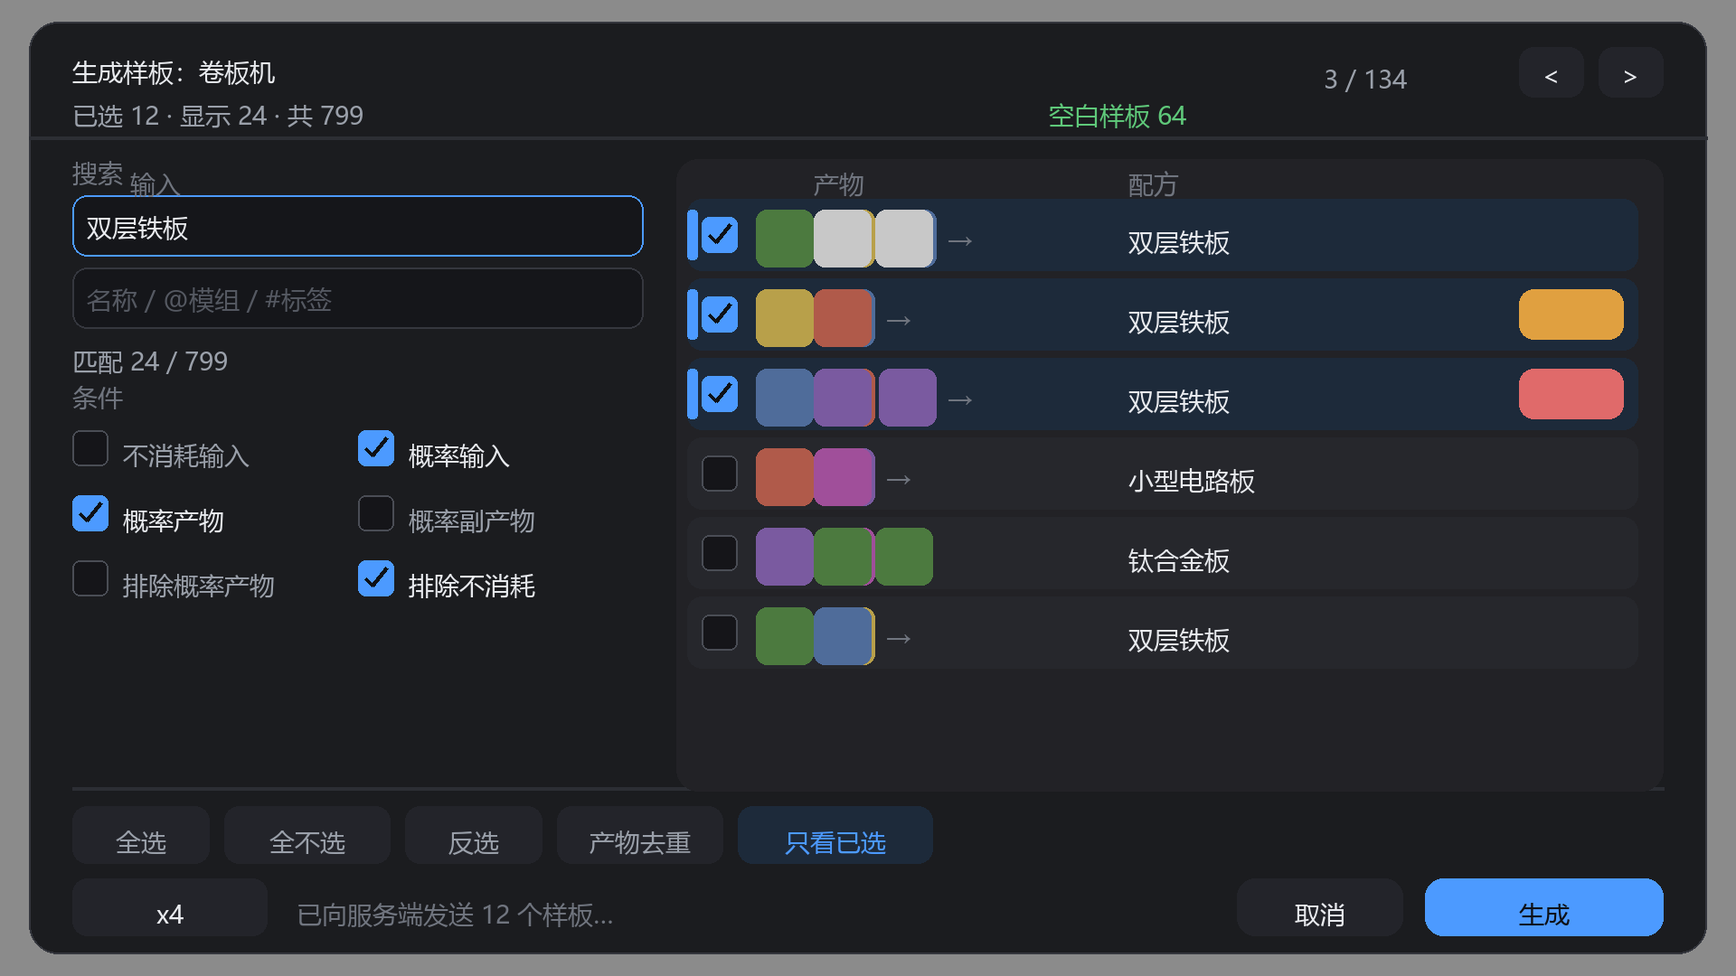
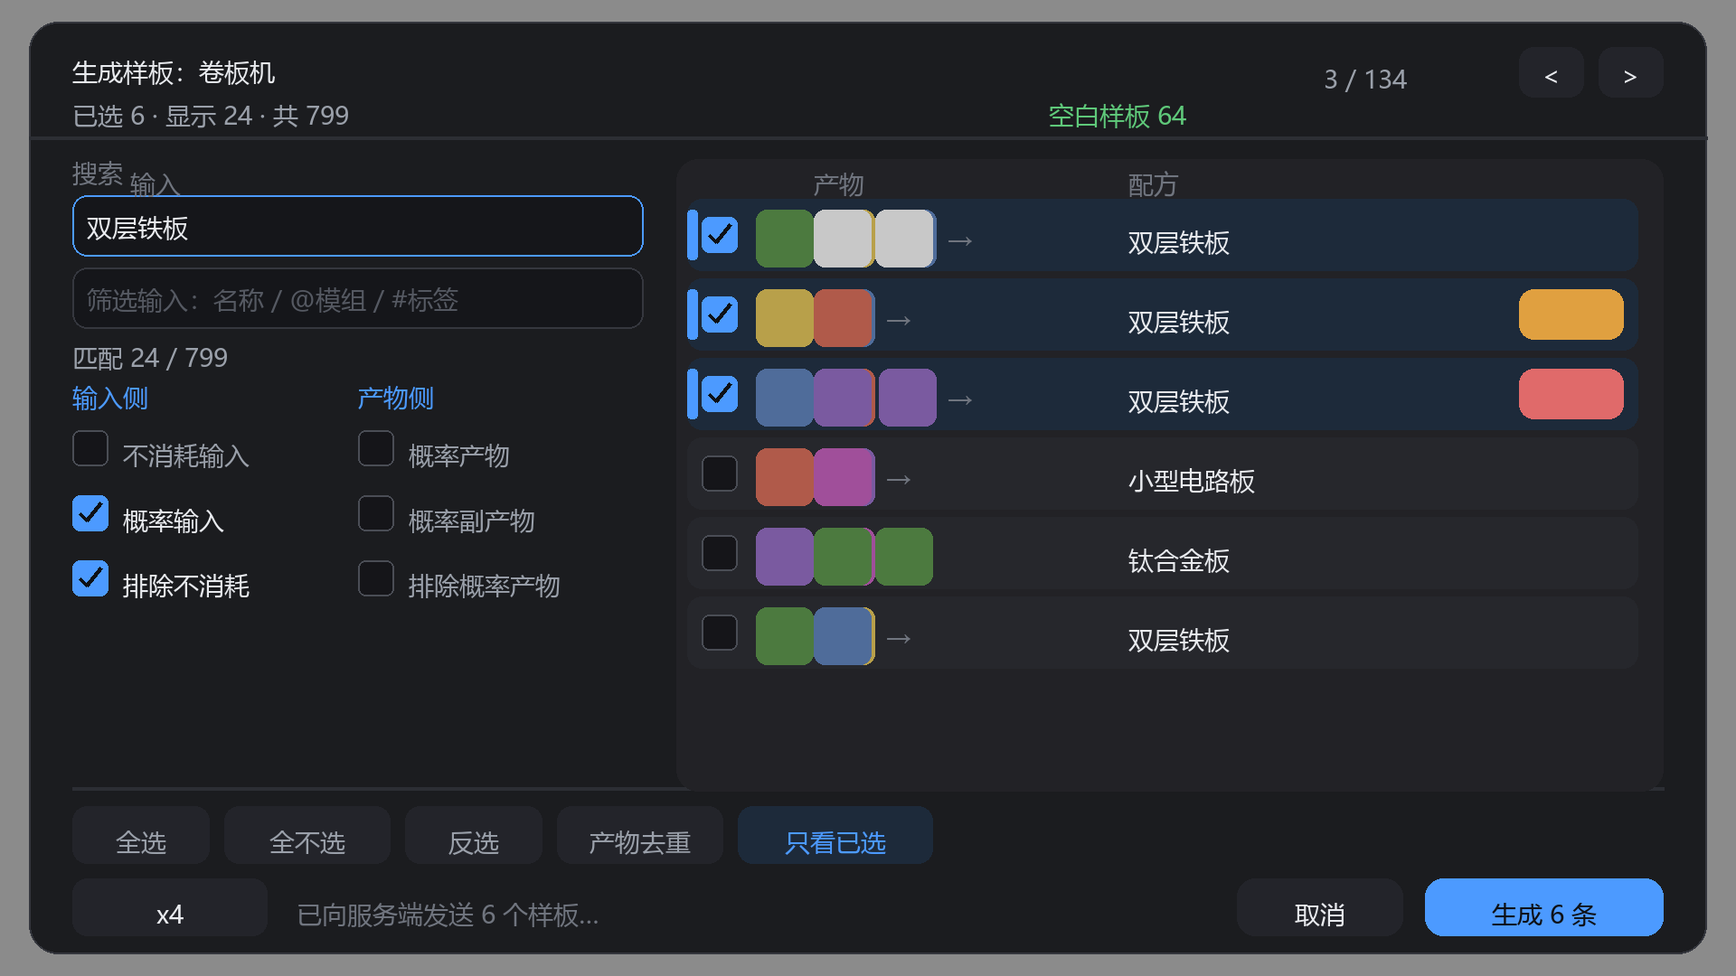
fix(preview): keep search, filters and generation on the same side
Filtering the list looked right but pressing generate still sent every
recipe of the category, and neither the search boxes nor the chance
filters distinguished the ingredients of a recipe from its products.

Generation now walks the filtered and selected rows and the button
shows how many patterns that is, so what you see is what gets sent.

RecipePlan exposes input and output mod ids and tags separately, and
ItemSearchQuery picks the side it was created for, so "@gregtech" in
the products box no longer matches recipes that merely use GT items.

The six chance conditions are grouped in two columns, one per side of
the recipe, with the headings doubling as the section title.

diff --git a/src/main/java/io/github/sexileman/eae2pattern/client/PreviewScreen.java b/src/main/java/io/github/sexileman/eae2pattern/client/PreviewScreen.java
@@ -74,8 +74,8 @@ public final class PreviewScreen extends Screen implements GenerationListener {
 
     /** Order of the six condition check boxes, matching the keys in the language files. */
     private static final String[] CONDITION_KEYS = {
-            "unconsumed", "chance_input", "chance_output", "chance_byproduct",
-            "drop_chance", "drop_unconsumed",
+            "unconsumed", "chance_input", "drop_unconsumed",
+            "chance_output", "chance_byproduct", "drop_chance",
     };
 
     private static final String[] TOOL_KEYS = {"select_all", "select_none", "invert", "dedupe", "only_selected"};
@@ -122,6 +122,8 @@ public final class PreviewScreen extends Screen implements GenerationListener {
     private int captionCondY;
     private boolean showCaptions;
     private boolean showMatch;
+    private int inputColumnY;
+    private int outputColumnY;
     private int page;
 
     private Box previousPage = Box.EMPTY;
@@ -218,16 +220,20 @@ public final class PreviewScreen extends Screen implements GenerationListener {
             y += 11;
         }
 
+        // One column per side of the recipe: the left column filters what goes in, the right one what comes out.
         int rows = (CONDITION_KEYS.length + 1) / 2;
         int rowHeight = Mth.clamp((contentBottom - y) / rows, 12, 18);
         this.toggles.clear();
         int half = this.sidebarWidth / 2;
         for (int i = 0; i < CONDITION_KEYS.length; i++) {
-            int column = i % 2;
-            int row = i / 2;
+            int column = i / rows;
+            int row = i % rows;
             this.toggles.add(new Box(this.sidebarLeft + column * half, y + row * rowHeight,
                     half - 3, rowHeight - 1));
         }
+
+        this.inputColumnY = y;
+        this.outputColumnY = y;
 
         int toolY = this.footerTop + 5;
         this.tools.clear();
@@ -263,8 +269,14 @@ public final class PreviewScreen extends Screen implements GenerationListener {
         recomputePending();
     }
 
+    /**
+     * Rebuilds what the generate button would send: the selected rows <em>that are currently visible</em>.
+     *
+     * <p>Generating the whole plan while the list shows a filtered subset was the reason the search box looked
+     * decorative.</p>
+     */
     private void recomputePending() {
-        this.pending = this.plan.selectedSpecs(this.multiplier, this.dropChanceOutputs,
+        this.pending = this.plan.selectedSpecs(this.visible, this.multiplier, this.dropChanceOutputs,
                 this.dropNeverConsumed);
     }
 
@@ -470,9 +482,14 @@ public final class PreviewScreen extends Screen implements GenerationListener {
         }
 
         if (this.showCaptions) {
-            UiKit.caption(graphics, this.font,
-                    Component.translatable("eae2_pattern.preview.section.conditions"),
-                    this.sidebarLeft, this.captionCondY, TEXT_MUTED);
+            // The two headings double as the "conditions" title: one column per side of the recipe.
+            int half = this.sidebarWidth / 2;
+            graphics.drawString(this.font,
+                    Component.translatable("eae2_pattern.preview.section.inputs").getString(),
+                    this.sidebarLeft, this.captionCondY, ACCENT, false);
+            graphics.drawString(this.font,
+                    Component.translatable("eae2_pattern.preview.section.outputs").getString(),
+                    this.sidebarLeft + half, this.captionCondY, ACCENT, false);
         }
 
         boolean[] values = conditionValues();
@@ -492,19 +509,18 @@ public final class PreviewScreen extends Screen implements GenerationListener {
     }
 
     private boolean[] conditionValues() {
-        return new boolean[]{this.onlyNeverConsumed, this.onlyProbabilisticInput,
-                this.onlyProbabilisticOutput, this.onlyProbabilisticByproduct,
-                this.dropChanceOutputs, this.dropNeverConsumed};
+        return new boolean[]{this.onlyNeverConsumed, this.onlyProbabilisticInput, this.dropNeverConsumed,
+                this.onlyProbabilisticOutput, this.onlyProbabilisticByproduct, this.dropChanceOutputs};
     }
 
     private void dropCondition(int index, boolean value) {
         switch (index) {
             case 0 -> this.onlyNeverConsumed = value;
             case 1 -> this.onlyProbabilisticInput = value;
-            case 2 -> this.onlyProbabilisticOutput = value;
-            case 3 -> this.onlyProbabilisticByproduct = value;
-            case 4 -> this.dropChanceOutputs = value;
-            case 5 -> this.dropNeverConsumed = value;
+            case 2 -> this.dropNeverConsumed = value;
+            case 3 -> this.onlyProbabilisticOutput = value;
+            case 4 -> this.onlyProbabilisticByproduct = value;
+            case 5 -> this.dropChanceOutputs = value;
             default -> {
             }
         }
@@ -654,9 +670,10 @@ public final class PreviewScreen extends Screen implements GenerationListener {
         graphics.drawString(this.font, label, multi.x() + (multi.width() - this.font.width(label)) / 2,
                 multi.y() + 4, scaled ? TEXT : TEXT_DIM, false);
 
-        drawActionButton(graphics, this.generateButton,
-                Component.translatable("eae2_pattern.preview.generate").getString(),
-                !this.pending.isEmpty(),
+        Component generateLabel = this.pending.isEmpty()
+                ? Component.translatable("eae2_pattern.preview.generate")
+                : Component.translatable("eae2_pattern.preview.generate_count", this.pending.size());
+        drawActionButton(graphics, this.generateButton, generateLabel.getString(), !this.pending.isEmpty(),
                 over(mouseX, mouseY, this.generateButton), true);
         drawActionButton(graphics, this.cancelButton,
                 Component.translatable("eae2_pattern.preview.cancel").getString(), true,

diff --git a/src/main/java/io/github/sexileman/eae2pattern/client/RecipePlan.java b/src/main/java/io/github/sexileman/eae2pattern/client/RecipePlan.java
@@ -62,8 +62,19 @@ public final class RecipePlan {
      * @param dropNeverConsumed leaves out the inputs that are needed but not used up
      */
     public List<PatternSpec> selectedSpecs(int multiplier, boolean dropChanceOutputs, boolean dropNeverConsumed) {
+        return selectedSpecs(entries, multiplier, dropChanceOutputs, dropNeverConsumed);
+    }
+
+    /**
+     * Same, but only over the rows the player can currently see.
+     *
+     * <p>The preview filters the list, so what gets generated has to be the filtered list too: generating the
+     * whole plan while showing a handful of rows looks like the search box does nothing.</p>
+     */
+    public List<PatternSpec> selectedSpecs(List<Entry> subset, int multiplier, boolean dropChanceOutputs,
+                                           boolean dropNeverConsumed) {
         List<PatternSpec> specs = new ArrayList<>();
-        for (Entry entry : entries) {
+        for (Entry entry : subset) {
             if (!entry.isSelected()) {
                 continue;
             }
@@ -112,9 +123,13 @@ public final class RecipePlan {
         @Nullable
         private List<String> outputTexts;
         @Nullable
-        private List<String> modIds;
+        private List<String> inputModIds;
         @Nullable
-        private List<String> tags;
+        private List<String> outputModIds;
+        @Nullable
+        private List<String> inputTags;
+        @Nullable
+        private List<String> outputTags;
 
         public Entry(PatternKind kind, ResourceLocation recipeId, Component label, ItemStack icon,
                      List<Ingredient> inputs, List<Ingredient> catalysts, List<Ingredient> outputs, boolean selected) {
@@ -208,38 +223,33 @@ public final class RecipePlan {
             return this.outputTexts;
         }
 
-        public List<String> modIds() {
-            if (this.modIds == null) {
-                List<String> mods = new ArrayList<>(8);
-                for (Ingredient ingredient : inputs) {
-                    mods.add(ingredient.spec().id().getNamespace());
-                }
-                for (Ingredient ingredient : catalysts) {
-                    mods.add(ingredient.spec().id().getNamespace());
-                }
-                for (Ingredient ingredient : outputs) {
-                    mods.add(ingredient.spec().id().getNamespace());
-                }
-                this.modIds = List.copyOf(mods);
+        /** Mod ids of what the recipe consumes, so a products search cannot match a mod that is only consumed. */
+        public List<String> inputModIds() {
+            if (this.inputModIds == null) {
+                this.inputModIds = List.copyOf(modIdsOf(this.inputs, this.catalysts));
             }
-            return this.modIds;
+            return this.inputModIds;
         }
 
-        public List<String> tags() {
-            if (this.tags == null) {
-                List<String> tags = new ArrayList<>();
-                for (Ingredient ingredient : inputs) {
-                    collectTags(ingredient.spec(), tags);
-                }
-                for (Ingredient ingredient : catalysts) {
-                    collectTags(ingredient.spec(), tags);
-                }
-                for (Ingredient ingredient : outputs) {
-                    collectTags(ingredient.spec(), tags);
-                }
-                this.tags = List.copyOf(tags);
+        public List<String> outputModIds() {
+            if (this.outputModIds == null) {
+                this.outputModIds = List.copyOf(modIdsOf(this.outputs));
             }
-            return this.tags;
+            return this.outputModIds;
+        }
+
+        public List<String> inputTags() {
+            if (this.inputTags == null) {
+                this.inputTags = List.copyOf(tagsOf(this.inputs, this.catalysts));
+            }
+            return this.inputTags;
+        }
+
+        public List<String> outputTags() {
+            if (this.outputTags == null) {
+                this.outputTags = List.copyOf(tagsOf(this.outputs));
+            }
+            return this.outputTags;
         }
 
         /**
@@ -343,6 +353,28 @@ public final class RecipePlan {
             texts.add(spec.id().getPath());
         }
         return List.copyOf(texts);
+    }
+
+    @SafeVarargs
+    private static List<String> modIdsOf(List<Ingredient>... groups) {
+        List<String> mods = new ArrayList<>(8);
+        for (List<Ingredient> group : groups) {
+            for (Ingredient ingredient : group) {
+                mods.add(ingredient.spec().id().getNamespace());
+            }
+        }
+        return mods;
+    }
+
+    @SafeVarargs
+    private static List<String> tagsOf(List<Ingredient>... groups) {
+        List<String> tags = new ArrayList<>();
+        for (List<Ingredient> group : groups) {
+            for (Ingredient ingredient : group) {
+                collectTags(ingredient.spec(), tags);
+            }
+        }
+        return tags;
     }
 
     private static void collectTags(StackSpec spec, List<String> into) {

diff --git a/src/main/java/io/github/sexileman/eae2pattern/client/ItemSearchQuery.java b/src/main/java/io/github/sexileman/eae2pattern/client/ItemSearchQuery.java
@@ -14,8 +14,8 @@ import java.util.regex.Pattern;
  * <ul>
  *   <li>{@code iron} - free text, matched against the names, ids, paths and namespaces of the ingredients of the
  *       side this box belongs to;</li>
- *   <li>{@code @gtceu} - only entries that involve a given mod;</li>
- *   <li>{@code #forge:plates} - only entries that involve an item tag;</li>
+ *   <li>{@code @gtceu} - only entries whose side involves a given mod;</li>
+ *   <li>{@code #forge:plates} - only entries whose side involves an item tag;</li>
  *   <li>{@code plate*} / {@code plate?} - wildcards;</li>
  *   <li>{@code -slab} or {@code !slab} - exclude a term.</li>
  * </ul>
@@ -82,11 +82,17 @@ public final class ItemSearchQuery {
         return this.raw;
     }
 
-    /** @param side the texts, mod ids and tags of one side of a recipe row */
+    /**
+     * @param side which half of the recipe this box looks at; nothing from the other half is ever consulted, so a
+     *             products query cannot match a mod that only appears among the ingredients
+     */
     public boolean matches(RecipePlan.Entry entry, Side side) {
-        List<String> texts = side == Side.INPUT ? entry.inputTexts() : entry.outputTexts();
+        boolean inputs = side == Side.INPUT;
+        List<String> texts = inputs ? entry.inputTexts() : entry.outputTexts();
+        List<String> mods = inputs ? entry.inputModIds() : entry.outputModIds();
+        List<String> tags = inputs ? entry.inputTags() : entry.outputTags();
         for (Term term : this.terms) {
-            boolean hit = term.test(entry, texts);
+            boolean hit = term.test(texts, mods, tags);
             if (term.negated() ? hit : !hit) {
                 return false;
             }
@@ -134,10 +140,10 @@ public final class ItemSearchQuery {
             return Pattern.compile(regex.toString(), Pattern.CASE_INSENSITIVE);
         }
 
-        boolean test(RecipePlan.Entry entry, List<String> texts) {
+        boolean test(List<String> texts, List<String> mods, List<String> tags) {
             return switch (this.kind) {
-                case MOD -> anyOf(entry.modIds());
-                case TAG -> anyOf(entry.tags());
+                case MOD -> anyOf(mods);
+                case TAG -> anyOf(tags);
                 case TEXT -> anyOf(texts);
             };
         }

diff --git a/docs/testing.md b/docs/testing.md
@@ -2,7 +2,23 @@
 
 前置：这个 jar 只能在**真实客户端**里验证。本工作区的开发环境跑不起来（AE2 的 mixin refmap 是生产 SRG 名，ForgeGradle 的 `fg.deobf()` 不重映射 jar 内 refmap，AE2 在 mixin 阶段就崩），和本模组无关，详见 `README.md` 的「关于开发环境跑起来」。
 
-## 〇、1.5.0 改了什么（最新，先看这里再测）
+## 〇、1.6.0 改了什么（最新，先看这里再测）
+
+上一版有个逻辑漏洞：列表已经筛对了，但按生成还是把全部配方发出去；而且搜索和条件都没有区分输入与产物。这一版三件事一起改：
+
+1. **生成跟着筛选走** —— 发出去的只有"列表里筛出来 + 被勾上"的那些行，生成按钮上直接显示条数（`生成 24 条`）。
+2. **搜索分两侧** —— 产物筛选框只匹配产物，输入筛选框只匹配输入。以前 `@gregtech` 在产物框里会命中"原料是 GT"的配方。
+3. **条件分两侧** —— 六个条件改成两列：左列"输入侧"（不消耗输入 / 概率输入 / 排除不消耗），右列"产物侧"（概率产物 / 概率副产物 / 排除概率产物）。
+
+**这一版请重点测：**
+
+1. 在"产物筛选"里打 `双层铁板`，记下 匹配 x / y 里的 x；点生成，确认**聊天栏报告的成功条数 = 你勾选的条数**，而不是 799。
+2. 在"输入筛选"里打 `铁锭`，确认列出来的都是"以铁锭为输入"的配方；在"产物筛选"里打同样内容，结果应该不同（产物是铁锭的才出现）。
+3. 在"产物筛选"里打 `@gregtech`，确认出现的配方产物属于 GT；换到"输入筛选"里打同样的，结果是另一批。
+4. 勾"排除概率产物"后点生成，确认生成的样板里不再有概率产物（拿样板去样板编码终端解码看输出）。
+5. 左列只出现输入侧三个条件、右列只出现产物侧三个条件，两边互不串。
+
+## 〇一、1.5.0 改了什么（历史）
 
 上一版（1.4.0）有两个真问题，这一版修的就是它们：
 
@@ -13,12 +29,12 @@
 
 1. 把 GUI 缩放调到 4（或把窗口拖小到逻辑分辨率接近 320×180），确认开关、"全选"那一排、生成按钮互不重叠，点开关不会误触底部按钮。
 2. 在"产物筛选"里打 双层铁板，看 匹配 x / y 是否立刻变小、列表是否只剩这些；清空后是否恢复。
-3. 在"输入筛选"里打 <铁锭，确认只剩以铁锭为输入的配方。
+3. 在"输入筛选"里打 铁锭，确认只剩以铁锭为输入的配方。
 4. 勾一个条件（比如"概率产物"），确认列表立刻变化；再取消，列表恢复。
 5. 点某一行里的输入图标，确认对应搜索框被填上那个物品的名字。
 6. 倍率点几次（x1→x2→x4…），生成后到 ME 网络里看处理样板的数量是否按倍率放大；合成样板不受影响。
 
-## 〇、1.4.0 改了什么（最新，先看这里再测）
+## 〇二、1.4.0 改了什么（历史）
 
 1. **预览界面换成 ModernUI 风格**：半透明暗色圆角面板、左侧筛选栏、卡片式列表、药丸开关、分段倍率、底部幽灵按钮 + 强调色主按钮。没有一处用原版按钮贴图。
 2. **徽章改成文字胶囊**：`不消耗` / `概率进` / `概率出`，不用记颜色。
@@ -26,7 +42,7 @@
 
 只测这三件事就够：① 打开预览页，在 GUI 缩放 2 / 3 / 4 下各看一眼，面板、侧栏、列表、页脚不重叠、不出面板外；② 开关点一下要立刻变色（蓝=开），列表随之刷新；③ 换一行悬停，胶囊与提示框仍然对得上。
 
-## 〇一、1.3.0 改了什么（历史）
+## 〇三、1.3.0 改了什么（历史）
 
 1. **预览界面整体重构**：左边筛选栏、右边列表。每行画出输入（最多 3 个）→ 产物，右侧三个小方点表示「不消耗的输入 / 概率输入 / 概率产物」。
 2. **两个搜索框**：产物筛选、输入筛选，语法一样（名称、`@模组`、`#标签`、`*` `?`、`-` 排除）。
@@ -42,14 +58,14 @@
 - **倍率**：选一条处理样板，把倍率点到 `x4` 再生成，用 AE2 样板终端打开那条样板，确认输入输出数量都是原来的 4 倍；再对一条合成样板点倍率，确认它没被放大（悬停会提示）。
 - **面板别重叠**：把 GUI 缩放调到 4（你截图那个档位），确认左筛选栏、列表、底部按钮都不重叠，`产物筛选`、`输入筛选` 两个框能正常输入中文和 `@`。
 
-## 〇二、1.2.1 改了什么（历史）
+## 〇四、1.2.1 改了什么（历史）
 
 1. **按钮图标换成 AE2 的空白样板贴图**，右下角一个绿色「＋」徽章。贴图是运行时从 AE2 资源包里读的，所以换了 AE2 材质包按钮会跟着变。
 2. logo 换成同一张图放大版。
 
 只需要看一眼：JEI 机器页左边竖条最下方那个格子，应该是一张 AE2 空白样板 + 右下的绿色加号，鼠标移上去变亮。
 
-## 〇三、1.2.0 改了什么（历史）
+## 〇五、1.2.0 改了什么（历史）
 
 1. **预览行现在画配方，不再只画产物**：`[输入图标] → [产物图标]`，图标右下角标数量。同一件产物有几种做法（卷板机：`2 铁锭` 或 `2 铁板` → 双层铁板）一眼分开。
 2. **悬停看完整配方**：鼠标停在任意一行，悬浮框列出每个输入 `数量× 名称`、输出、样板类型和配方 id。
@@ -63,7 +79,7 @@
 - **按输入筛选**：搜 `<铁锭` 只剩用铁锭做的那批；搜 `>双层铁板` 只剩产出双层铁板的。
 - **产物去重**：全选后点「产物去重」，确认同类产物的多条只剩一条被选中；`只看已选` 能复查剩下哪些。
 
-## 〇四、1.1.0 改了什么（历史）
+## 〇六、1.1.0 改了什么（历史）
 
 1. **GT / NBT 兼容：带 NBT 的配方材料不再被抹平**。GregTech(O) 的「配置电路」（`gtceu:programmed_circuit` + `Configuration=N`）以前在 JEI → `StackSpec` 这一步就被压成「任意电路」，编出来的样板能跑但做错东西。现在 NBT 全程带着：JEI 槽位 → 网络包 → `AEItemKey.of(ItemStack)` → 合成网格。
 2. **预览页有搜索框了**，语法学 JEI：
@@ -98,7 +114,7 @@
 - **命令**：`/eae2_pattern config set limits.max_patterns_per_request 16384` → 立刻再点一次生成 → `logs/latest.log` 里 `config maxPatternsPerRequest=16384`；重启游戏后 `get` 仍是 16384（说明落盘成功）。
 - **大机器**：卷板机 799 条照旧应该走通；若出现 `skipped N`，把 `Skipping recipe …` 那几行发我。
 
-## 〇五、第三版改了什么（历史）
+## 〇七、第三版改了什么（历史）
 
 1. **修掉「生成失败」的真凶：单次请求上限原来是 512 条**。你那台卷板机 `gtceu:bender` 有 799 条配方，所以整个请求在服务端被直接拒了，一条都没写——不是样板不够。现在默认上限提到 **8192**，并且这种拒绝会走独立的结果类型，聊天栏直接告诉你「请求过大 + 该改哪个配置」。
    > 注意：旧版本已经在 `serverconfig/eae2_pattern-server.toml` 里写死了 `maxPatternsPerRequest = 512`。**改默认值不会覆盖已有文件**，请把那一行改成 `8192`，或者直接删掉这个 toml 让模组重新生成。
@@ -112,7 +128,7 @@
 - 按钮位置：打开任意 JEI 配方页，按钮应**落在左侧工作方块竖条的格子里**（下一个空槽位），是一个灰色小方块里嵌样板卡图标；竖条排满时会贴在竖条正下方并带一小块底板。
 - 若出现「另有 N 个配方无法编码」：说明这 N 条被跳过了，把那几条细节发我，我判断是适配问题还是应当过滤掉。
 
-## 〇六、第二版改了什么（历史）
+## 〇八、第二版改了什么（历史）
 
 1. **采集范围收紧到「当前这个 JEI 类别」**。之前会把 JEI 隐藏的配方、以及类别自己 `isHandled` 拒绝的配方一起收进来，多个类别共用同一个 `RecipeType` 时就会串味。现在只收 JEI 在**这个工作方块页面上真正会画出来**的配方。另外如果 JEI 正停在「全部类别」索引页（例如按 U 后弹出类别列表），点按钮会先弹**类别选择页**，不会盲取某一个类别。
 2. **预览改成翻页**：标题栏右侧有 `<` `>` 按钮和页码，鼠标滚轮、方向键左右、PageUp / PageDown 也能翻页；勾选状态**跨页保留**。
